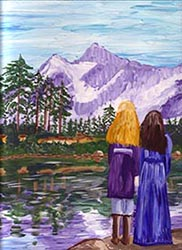
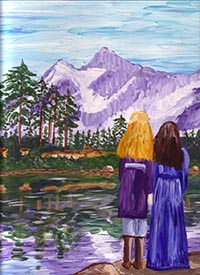
Немного изменен вывод картинок

diff --git a/css/main.css b/css/main.css
@@ -412,16 +412,16 @@ div.view
 
 .view-picture {
     display: inline-block;
-    /*width: 200px;*/
+    width: 200px;    
     padding: 10px;
 	margin-right: 10px;	
     border: 1px solid #fa8258;
     background-color: #ffffff;
 }
 
-.view-picture img {
+/*.view-picture img {
     display: block;
-}
+}*/
 
 div.breadcrumbs
 {

diff --git a/protected/models/Pictures.php b/protected/models/Pictures.php
@@ -130,7 +130,8 @@ class Pictures extends CActiveRecord
         //начинаем запись превьюшки        
         $source = Yii::getPathOfAlias('webroot') ."/images/".$this->image;
         $dest = Yii::getPathOfAlias('webroot') ."/images/preview/".$this->image;
-        $nh = 250;    // Высота миниатюр
+        //$nh = 250;    // Высота миниатюр
+        $nw = 200;    // Ширина миниатюр
         
         //определяем тип изображения
     $stype = explode(".", $source);
@@ -142,7 +143,7 @@ class Pictures extends CActiveRecord
     $h = $size[1];    // Высота изображения
 
     // высоту миниатюры сейчас сосчитаем пропорционально ширине
-    $nw = round($nh*$w/$h);
+    $nh = round($nw*$h/$w);
     
     
     
